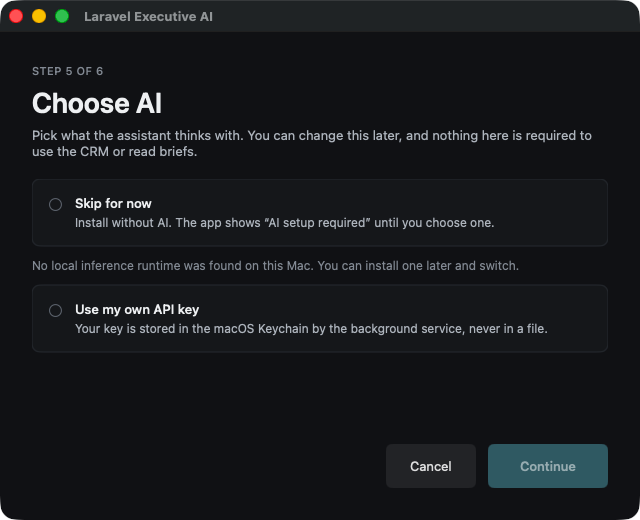
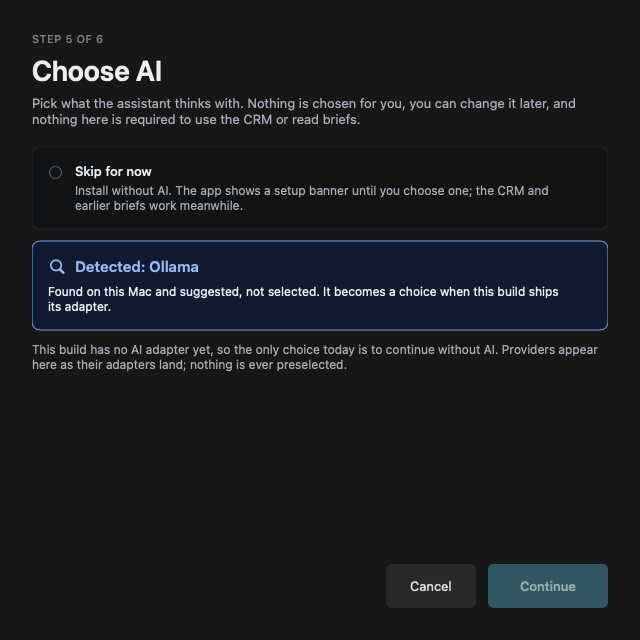
docs(ai): screenshots for the ai setup required state on every surface (S1-11)
Regenerates the installer Choose AI and the five menu bar panel images from the
fixtures (the AI row now shows provider, last success and Set up AI), adds the
PWA home banner and /settings/ai captures, and renders the Choose AI screen in
its test through an NSHostingView because ImageRenderer leaves the
NSScrollView-backed InstallScreen blank. The screen itself drops a redundant
inner ScrollView.

diff --git a/apps/macos/LaravelExecutiveAI/Install/InstallScreens.swift b/apps/macos/LaravelExecutiveAI/Install/InstallScreens.swift
@@ -274,38 +274,37 @@ struct ChooseAiScreen: View {
             title: "Choose AI",
             lead: "Pick what the assistant thinks with. Nothing is chosen for you, you can change it later, and nothing here is required to use the CRM or read briefs."
         ) {
-            ScrollView {
-                VStack(alignment: .leading, spacing: Tokens.Spacing.s3) {
-                    option(.skip, title: "Skip for now", detail: "Install without AI. The app shows a setup banner until you choose one; the CRM and earlier briefs work meanwhile.")
+            // InstallScreen already scrolls its content; a nested ScrollView would collapse in ImageRenderer.
+            VStack(alignment: .leading, spacing: Tokens.Spacing.s3) {
+                option(.skip, title: "Skip for now", detail: "Install without AI. The app shows a setup banner until you choose one; the CRM and earlier briefs work meanwhile.")
 
-                    ForEach(options.selectableRuntimes) { runtime in
-                        option(.localRuntime(runtime), title: "Use \(runtime.displayName) on this Mac", detail: "Detected here. Models run locally; nothing is sent to a provider.", tag: "Detected")
+                ForEach(options.selectableRuntimes) { runtime in
+                    option(.localRuntime(runtime), title: "Use \(runtime.displayName) on this Mac", detail: "Detected here. Models run locally; nothing is sent to a provider.", tag: "Detected")
+                }
+
+                ForEach(options.suggestedRuntimes) { runtime in
+                    suggestion(runtime)
+                }
+
+                if machine.detectedRuntimes.isEmpty {
+                    Text("No local inference runtime was found on this Mac. You can install one later and switch.")
+                        .font(Tokens.Typography.footnote)
+                        .foregroundStyle(Tokens.Colors.textMuted.dynamic)
+                }
+
+                if options.offersOwnKey {
+                    option(.ownApiKey, title: "Use my own API key", detail: "Your key is stored in the macOS Keychain by the background service, never in a file.")
+
+                    if draft.choice == .ownApiKey {
+                        keyFields
                     }
+                }
 
-                    ForEach(options.suggestedRuntimes) { runtime in
-                        suggestion(runtime)
-                    }
-
-                    if machine.detectedRuntimes.isEmpty {
-                        Text("No local inference runtime was found on this Mac. You can install one later and switch.")
-                            .font(Tokens.Typography.footnote)
-                            .foregroundStyle(Tokens.Colors.textMuted.dynamic)
-                    }
-
-                    if options.offersOwnKey {
-                        option(.ownApiKey, title: "Use my own API key", detail: "Your key is stored in the macOS Keychain by the background service, never in a file.")
-
-                        if draft.choice == .ownApiKey {
-                            keyFields
-                        }
-                    }
-
-                    if options.onlySkipIsSelectable {
-                        Text("This build has no AI adapter yet, so the only choice today is to continue without AI. Providers appear here as their adapters land; nothing is ever preselected.")
-                            .font(Tokens.Typography.footnote)
-                            .foregroundStyle(Tokens.Colors.textSecondary.dynamic)
-                            .fixedSize(horizontal: false, vertical: true)
-                    }
+                if options.onlySkipIsSelectable {
+                    Text("This build has no AI adapter yet, so the only choice today is to continue without AI. Providers appear here as their adapters land; nothing is ever preselected.")
+                        .font(Tokens.Typography.footnote)
+                        .foregroundStyle(Tokens.Colors.textSecondary.dynamic)
+                        .fixedSize(horizontal: false, vertical: true)
                 }
             }
         } footer: {

diff --git a/apps/macos/LaravelExecutiveAITests/Install/ChooseAiScreenTests.swift b/apps/macos/LaravelExecutiveAITests/Install/ChooseAiScreenTests.swift
@@ -157,21 +157,25 @@ final class ChooseAiScreenTests: XCTestCase {
         try render(ChooseAiScreen(machine: machine, draft: ChooseAiDraft(choice: .skip)), name: "05-choose-ai-selected", into: screenshotDirectory)
     }
 
+    /// Draws through an NSHostingView: `InstallScreen` scrolls its content in an NSScrollView-backed
+    /// ScrollView, which `ImageRenderer` leaves blank.
     @MainActor
     private func render(_ screen: ChooseAiScreen, name: String, into directory: URL?) throws {
-        let renderer = ImageRenderer(content: screen.frame(width: 640, height: 640).background(Color(nsColor: .windowBackgroundColor)))
-        renderer.scale = 2
+        let host = NSHostingView(rootView: screen.background(Color(nsColor: .windowBackgroundColor)))
+        host.frame = NSRect(x: 0, y: 0, width: 640, height: 640)
+        host.layoutSubtreeIfNeeded()
 
-        let image = try XCTUnwrap(renderer.nsImage, name)
-        XCTAssertGreaterThan(image.size.height, 400, name)
+        let bitmap = try XCTUnwrap(host.bitmapImageRepForCachingDisplay(in: host.bounds), name)
+        host.cacheDisplay(in: host.bounds, to: bitmap)
+
+        XCTAssertGreaterThan(bitmap.pixelsHigh, 400, name)
 
         guard let directory else {
             return
         }
 
         try FileManager.default.createDirectory(at: directory, withIntermediateDirectories: true)
-        let tiff = try XCTUnwrap(image.tiffRepresentation)
-        let png = try XCTUnwrap(NSBitmapImageRep(data: tiff)?.representation(using: .png, properties: [:]))
+        let png = try XCTUnwrap(bitmap.representation(using: .png, properties: [:]))
         try png.write(to: directory.appending(path: "\(name).png"))
     }
 }

diff --git a/docs/architecture/ai-state.md b/docs/architecture/ai-state.md
@@ -103,6 +103,12 @@ wording from `MenuBarCopy` (`MenuBarStrings.en` / `.sv`, chosen by `Locale.curre
 The "Select AI" / "Reconfigure AI" affordances open `/settings/ai` (PWA) and `openSettings()` (menu
 bar) until the deep link into the Mac's SELECT_AI re-entry exists (S1-07 Settings › Local Models).
 
+Captures (fixture data only): PWA [home banner](images/pwa/home-ai-setup-required-desktop-1400.jpg)
+and [`/settings/ai`](images/pwa/settings-ai-desktop-1400.jpg); menu bar
+[AI setup required](images/menubar/05-ai-setup-required.png) and [AI ready](images/menubar/01-fresh.png)
+with the provider and last-success lines; installer [Choose AI](images/installer/05-choose-ai.png)
+with the suggested-not-selected Ollama card.
+
 ## 4. SELECT_AI (installer screen 5)
 
 `ChooseAiOptions` derives what the screen may show from the catalogue and
